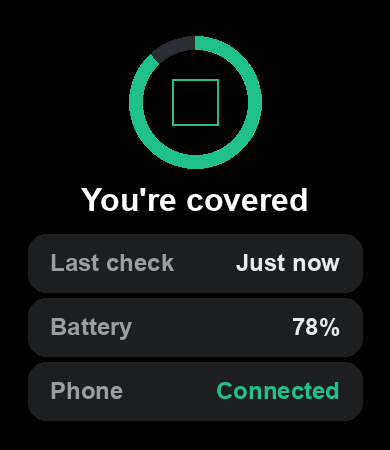
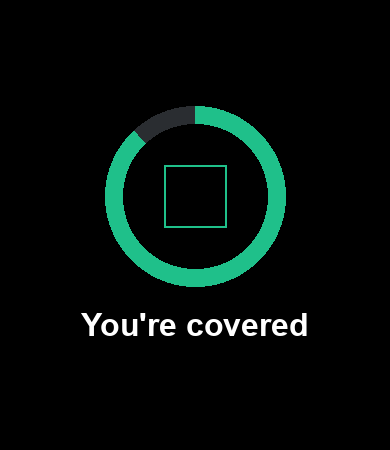
Implement detailed settings page and simplify Home UI
The Home screen now presents a single, centered detector ring, dropping the previous three information rows (last check, battery, phone link). This refines the watch UI for clarity.

The Phone app settings (`setting/index.js`) have been fully implemented, allowing users to configure emergency contact details and webhook parameters. A critical 'Send test alert' function is included, providing immediate feedback on webhook configuration and delivery status directly within the settings page.

diff --git a/page/index.js b/page/index.js
@@ -1,11 +1,11 @@
 /**
- * Home ("You're covered") — design 2A.
+ * Home — a single detector ring in the middle of the screen.
  *
  * Runs the accelerometer in the foreground (Zepp OS forbids it in background
  * services — README §1.2), keeps the page alive, feeds samples to the
  * detector and hands off to page/alert when a fall is confirmed.
  *
- * Interaction (the design keeps the screen to a ring and three facts):
+ * Interaction (the screen is only the ring):
  *   tap the ring         → pause / resume monitoring
  *   long-press the ring  → replay a synthetic fall (DEBUG only)
  *   swipe up             → sensitivity settings
@@ -13,8 +13,7 @@
  * Navigation to/from the alert flow uses replace(), so each page starts
  * fresh and monitoring restarts via AUTO_START when the flow returns here.
  */
-import { Accelerometer, Wear, Battery, FREQ_MODE_NORMAL } from '@zos/sensor'
-import { connectStatus } from '@zos/ble'
+import { Accelerometer, Wear, FREQ_MODE_NORMAL } from '@zos/sensor'
 import {
   setPageBrightTime,
   resetPageBrightTime,
@@ -53,10 +52,8 @@ Page(
       worn: true,
       accel: null,
       wear: null,
-      battery: null,
       detector: null,
       uiTimer: null,
-      lastSampleAt: 0,
       samplesSinceLog: 0,
       lastLogAt: 0,
       bucket: { startedAt: 0, samples: 0, worn: true },
@@ -72,7 +69,6 @@ Page(
       detector.onCandidate((c) => console.log('[fall-candidate]', JSON.stringify(c)))
       detector.onFall((evt) => this.onFallDetected(evt))
       this.state.detector = detector
-      this.state.battery = new Battery()
       this.syncPrefs()
     },
 
@@ -109,25 +105,6 @@ Page(
         color: COLOR.text,
         align_h: align.CENTER_H,
         align_v: align.CENTER_V,
-      })
-
-      const labels = ['home.last_check', 'home.battery', 'home.phone']
-      w.rows = L.ROWS.map((row, i) => {
-        createWidget(widget.FILL_RECT, { ...row.rect, color: COLOR.card })
-        createWidget(widget.TEXT, {
-          ...row.label,
-          text: getText(labels[i]),
-          color: COLOR.muted,
-          align_h: align.LEFT,
-          align_v: align.CENTER_V,
-        })
-        return createWidget(widget.TEXT, {
-          ...row.value,
-          text: '',
-          color: COLOR.textSoft,
-          align_h: align.RIGHT,
-          align_v: align.CENTER_V,
-        })
       })
 
       onGesture((g) => {
@@ -170,7 +147,6 @@ Page(
 
       const now = Date.now()
       s.running = true
-      s.lastSampleAt = 0
       s.samplesSinceLog = 0
       s.lastLogAt = now
       s.buckets = []
@@ -207,7 +183,6 @@ Page(
       const s = this.state
       const { x, y, z } = s.accel.getCurrent()
       const now = Date.now()
-      s.lastSampleAt = now
       s.samplesSinceLog++
       s.bucket.samples++
       if (!s.worn) {
@@ -218,7 +193,7 @@ Page(
       s.detector.push(now, x, y, z)
     },
 
-    /** Once a second: roll the coverage bucket, log the sample rate, refresh the rows. */
+    /** Once a second: roll the coverage bucket, log the sample rate, refresh the ring. */
     tick() {
       const s = this.state
       const now = Date.now()
@@ -258,23 +233,6 @@ Page(
         ...L.RING,
         color: ringColor,
         end_angle: L.RING.start_angle + Math.max(1, 360 * this.coverage()),
-      })
-
-      // Last check
-      let last = getText('home.paused')
-      if (s.running && s.lastSampleAt) {
-        const age = Date.now() - s.lastSampleAt
-        last = age < 60000 ? getText('home.just_now') : getText('home.min_ago').replace('{n}', Math.floor(age / 60000))
-      }
-      w.rows[0].setProperty(prop.TEXT, last)
-      // Battery
-      w.rows[1].setProperty(prop.TEXT, `${s.battery.getCurrent()}%`)
-      // Phone link
-      const linked = connectStatus()
-      w.rows[2].setProperty(prop.MORE, {
-        ...L.ROWS[2].value,
-        text: getText(linked ? 'home.connected' : 'home.disconnected'),
-        color: linked ? COLOR.green : COLOR.redSoft,
       })
     },
 

diff --git a/setting/index.js b/setting/index.js
@@ -1,7 +1,83 @@
+/**
+ * Phone settings page (Zepp app → Fall Guard → Settings).
+ *
+ * Writes to settingsStorage (string-only). The app-side reads these keys:
+ *   contactName, contactPhone, webhookUrl, webhookToken
+ * and pushes contactName to the watch whenever it changes.
+ *
+ * "Send test alert" works through storage too: this page sets
+ * `testAlertRequest`, the app-side sends a test POST and writes
+ * `testAlertResult`; the page re-renders (build re-runs on every storage
+ * change) and shows the outcome.
+ */
 import { gettext } from 'i18n'
 
-AppSettingsPage({
-  build() {
-    console.log(gettext('example'))
+const STYLE = {
+  page: { padding: '12px 0 32px' },
+  help: { fontSize: '13px', color: '#6E7278', padding: '4px 16px 12px', lineHeight: '1.45' },
+  status: { fontSize: '13px', padding: '6px 16px 12px', lineHeight: '1.45' },
+  ok: { color: '#1FC08A' },
+  fail: { color: '#FF3B2F' },
+  pending: { color: '#8A8F96' },
+}
+
+function testStatus(storage) {
+  const requested = Number(storage.getItem('testAlertRequest') || 0)
+  let result = null
+  try {
+    result = JSON.parse(storage.getItem('testAlertResult') || 'null')
+  } catch (e) {
+    result = null
   }
+  if (!requested) return null
+  if (!result || Number(result.ts) !== requested) return { text: gettext('delivery.testing'), style: STYLE.pending }
+  if (result.ok) return { text: gettext('delivery.test_ok').replace('{status}', result.status), style: STYLE.ok }
+  if (result.error === 'no_webhook') return { text: gettext('delivery.no_url'), style: STYLE.fail }
+  return { text: gettext('delivery.test_fail').replace('{error}', result.error || 'unknown'), style: STYLE.fail }
+}
+
+AppSettingsPage({
+  build(props) {
+    const storage = props.settingsStorage
+    const status = testStatus(storage)
+    const contactName = storage.getItem('contactName') || ''
+    const helpName = contactName.trim().split(/\s+/)[0] || 'your contact'
+
+    return View({ style: STYLE.page }, [
+      Section({ title: gettext('section.contact') }, [
+        TextInput({
+          label: gettext('contact.name'),
+          placeholder: gettext('contact.name_placeholder'),
+          settingsKey: 'contactName',
+        }),
+        TextInput({
+          label: gettext('contact.phone'),
+          placeholder: gettext('contact.phone_placeholder'),
+          settingsKey: 'contactPhone',
+        }),
+        Text({ paragraph: true, style: STYLE.help }, gettext('contact.help').replace('{name}', helpName)),
+      ]),
+
+      Section({ title: gettext('section.delivery') }, [
+        TextInput({
+          label: gettext('delivery.url'),
+          placeholder: gettext('delivery.url_placeholder'),
+          settingsKey: 'webhookUrl',
+        }),
+        TextInput({
+          label: gettext('delivery.token'),
+          settingsKey: 'webhookToken',
+        }),
+        Text({ paragraph: true, style: STYLE.help }, gettext('delivery.help')),
+        Button({
+          label: gettext('delivery.test'),
+          color: 'primary',
+          onClick: () => storage.setItem('testAlertRequest', String(Date.now())),
+        }),
+        status ? Text({ paragraph: true, style: { ...STYLE.status, ...status.style } }, status.text) : View({}, []),
+      ]),
+
+      Section({ title: gettext('section.watch') }, [Text({ paragraph: true, style: STYLE.help }, gettext('watch.help'))]),
+    ])
+  },
 })

diff --git a/page/index.r.layout.js b/page/index.r.layout.js
@@ -1,22 +1,11 @@
-// Home — round 480 × 480 (design 2A "You're covered"). All values in design px.
+// Home — round 480 × 480: a single detector ring centred on the screen.
 import { px } from '@zos/utils'
 
-// Ring: 150 px outer, 120 px inner (15 px stroke), centred at (240, 129). 0° = 3 o'clock.
-export const RING = { x: px(165), y: px(54), w: px(150), h: px(150), start_angle: -90, line_width: px(15) }
+// Ring: 200 px outer, 160 px inner (20 px stroke), centred at (240, 214). 0° = 3 o'clock.
+export const RING = { x: px(140), y: px(114), w: px(200), h: px(200), start_angle: -90, line_width: px(20) }
 export const RING_FULL = 270 // end_angle for 100 %
 // Inner disc is a circular BUTTON so the ring can be tapped (toggle) / long-pressed (debug).
-export const DISC = { x: px(180), y: px(69), w: px(120), h: px(120), radius: px(60), text: '' }
-export const SHIELD = { x: px(214), y: px(103), w: px(52), h: px(52), src: 'shield.png' }
+export const DISC = { x: px(160), y: px(134), w: px(160), h: px(160), radius: px(80), text: '' }
+export const SHIELD = { x: px(206), y: px(180), w: px(68), h: px(68), src: 'shield.png' }
 
-export const TITLE = { x: px(0), y: px(208), w: px(480), h: px(42), text_size: px(34) }
-
-const ROW_H = 58
-const ROW_X = 70
-const ROW_W = 340
-const PAD = 24
-const rowY = [252, 316, 380]
-export const ROWS = rowY.map((y) => ({
-  rect: { x: px(ROW_X), y: px(y), w: px(ROW_W), h: px(ROW_H), radius: px(20) },
-  label: { x: px(ROW_X + PAD), y: px(y), w: px(150), h: px(ROW_H), text_size: px(24) },
-  value: { x: px(ROW_X + ROW_W - PAD - 190), y: px(y), w: px(190), h: px(ROW_H), text_size: px(24) },
-}))
+export const TITLE = { x: px(0), y: px(332), w: px(480), h: px(44), text_size: px(34) }

diff --git a/page/index.s.layout.js b/page/index.s.layout.js
@@ -1,21 +1,10 @@
-// Home — square 390 × 450, e.g. Amazfit Active (design 2A). All values in design px.
+// Home — square 390 × 450 (Amazfit Active): a single detector ring centred on the screen.
 import { px } from '@zos/utils'
 
-// Ring: 132 px outer, 104 px inner (14 px stroke), centred at (195, 102).
-export const RING = { x: px(129), y: px(36), w: px(132), h: px(132), start_angle: -90, line_width: px(14) }
+// Ring: 180 px outer, 144 px inner (18 px stroke), centred at (195, 196).
+export const RING = { x: px(105), y: px(106), w: px(180), h: px(180), start_angle: -90, line_width: px(18) }
 export const RING_FULL = 270
-export const DISC = { x: px(143), y: px(50), w: px(104), h: px(104), radius: px(52), text: '' }
-export const SHIELD = { x: px(172), y: px(79), w: px(46), h: px(46), src: 'shield.png' }
+export const DISC = { x: px(123), y: px(124), w: px(144), h: px(144), radius: px(72), text: '' }
+export const SHIELD = { x: px(164), y: px(165), w: px(62), h: px(62), src: 'shield.png' }
 
-export const TITLE = { x: px(0), y: px(180), w: px(390), h: px(40), text_size: px(32) }
-
-const ROW_H = 58
-const ROW_X = 28
-const ROW_W = 334
-const PAD = 22
-const rowY = [234, 298, 362]
-export const ROWS = rowY.map((y) => ({
-  rect: { x: px(ROW_X), y: px(y), w: px(ROW_W), h: px(ROW_H), radius: px(18) },
-  label: { x: px(ROW_X + PAD), y: px(y), w: px(150), h: px(ROW_H), text_size: px(24) },
-  value: { x: px(ROW_X + ROW_W - PAD - 190), y: px(y), w: px(190), h: px(ROW_H), text_size: px(24) },
-}))
+export const TITLE = { x: px(0), y: px(304), w: px(390), h: px(42), text_size: px(32) }

diff --git a/app-side/index.js b/app-side/index.js
@@ -55,8 +55,16 @@ AppSideService(
     },
 
     // Fired by zml when the phone settings page writes to settingsStorage.
-    onSettingsChange({ key }) {
+    onSettingsChange({ key, newValue }) {
       if (key === 'contactName') this.call({ method: 'prefs.update', params: devicePrefs() })
+      if (key === 'testAlertRequest' && Number(newValue) > 0) this.runTestAlert(Number(newValue))
+    },
+
+    /** "Send test alert" from the settings page: POST with source 'test', report back via storage. */
+    runTestAlert(ts) {
+      this.sendSos({ source: 'test', ts, event: {} })
+        .catch((e) => ({ ok: false, error: String((e && e.message) || e) }))
+        .then((r) => settings.settingsStorage.setItem('testAlertResult', JSON.stringify({ ...r, ts })))
     },
 
     /**
@@ -75,7 +83,7 @@ AppSideService(
       const body = {
         type: 'fall',
         app: 'fall-guard',
-        source: params.source || 'unknown', // 'timeout' | 'manual'
+        source: params.source || 'unknown', // 'timeout' | 'manual' | 'test'
         ts: params.ts || Date.now(),
         contact: { name: setting('contactName'), phone: setting('contactPhone') },
         event: params.event || {},

diff --git a/tools/render-mocks.py b/tools/render-mocks.py
@@ -66,8 +66,6 @@ for shape in ['r', 's']:
     l = L[f'index.{shape}']; im, d = canvas(shape)
     arc(d, l['RING'], C['track'], 270); arc(d, l['RING'], C['green'], l['RING']['start_angle'] + 360 * 0.88)
     rrect(d, l['DISC'], C['bg']); icon(d, l['SHIELD']); txt(d, l['TITLE'], "You're covered", C['text'])
-    for row, (lab, val, vc) in zip(l['ROWS'], [('Last check', 'Just now', C['textSoft']), ('Battery', '78%', C['textSoft']), ('Phone', 'Connected', C['green'])]):
-        rrect(d, row['rect'], C['card']); txt(d, row['label'], lab, C['muted'], 'l'); txt(d, row['value'], val, vc, 'r')
     save(im, 'home', shape)
 
     l = L[f'alert.{shape}']; im, d = canvas(shape)

diff --git a/README.md b/README.md
@@ -150,7 +150,7 @@ The SOS-sent state, which 2A doesn't cover, adapts 1A's "Contacting" screen.
 
 | Screen | Page | What's on it |
 |---|---|---|
-| Home — "You're covered" | `page/index` | Green coverage ring with shield, title, three facts: *Last check* (age of the latest sample), *Battery* (`Battery.getCurrent()`), *Phone* (`ble.connectStatus()`). |
+| Home — "You're covered" | `page/index` | Simplified from the design: a single coverage ring with the shield, centred, and the state title beneath it (covered / paused / not on wrist). The three info rows were dropped on 2026-09-16. |
 | Fall detected — "Are you alright?" | `page/alert` | Red countdown ring, "We'll call {contact}, then emergency services", white **I'm fine** pill, **Get help now** link. |
 | Confirmed — "Glad you're OK" | `page/result?type=ok` | Green check disc, "Nobody was called. We'll keep watching.", closes in 3 s. |
 | Contacting | `page/result?type=sos` | Initials avatar, contact name, live status of the `sos.send` request, **Done**. |
@@ -169,7 +169,7 @@ Design → Zepp OS mapping:
 | Design | Watch |
 |---|---|
 | Conic-gradient rings | `widget.ARC` track + progress, `start_angle: -90` (0° is 3 o'clock) |
-| Shield / check icons | `assets/default.{r,s}/shield.png`, `check.png` rendered from the SVG paths with `rsvg-convert` (sizes per shape) |
+| Shield / check icons | `assets/default.{r,s}/shield.png` (68 / 62 px), `check.png` (60 / 54 px) rendered from the SVG paths with `rsvg-convert` |
 | Radial red glow | three translucent `CIRCLE`s (`alpha` 18/22/26); a gradient PNG would be ~900 KB once the build converts it to TGA |
 | White pill / text link | `BUTTON` with `normal_color` white / black |
 | Radio rows, toggle | `FILL_RECT` + `STROKE_RECT` + `CIRCLE`, both states pre-created and swapped with `prop.VISIBLE` |
@@ -532,27 +532,29 @@ Not attached yet: **location**. The status string is "Alert sent" until a
 position is actually included (watch GPS via `@zos/sensor Geolocation` on
 GPS models, or phone location if the Zepp app exposes it).
 
-### Step 7 — Settings page (`setting/index.js`)
+### Step 7 — Settings page (`setting/index.js`)  ✅ done
 
-Rendered in the Zepp phone app. Store: emergency contact, webhook URL,
-countdown seconds, sensitivity (which maps to `IMPACT_G` / `STILL_VAR_G`).
+Rendered inside the Zepp phone app (Fall Guard → Settings). Components are
+globals (`View`, `Section`, `TextInput`, `Text`, `Button`), and `build(props)`
+re-runs whenever `settingsStorage` changes, so the page is a pure function of
+storage.
 
-```js
-AppSettingsPage({
-  build(props) {
-    return View({}, [
-      TextInput({ label: 'Emergency contact', settingsKey: 'contact' }),
-      TextInput({ label: 'Webhook URL', settingsKey: 'webhookUrl' }),
-      Select({ label: 'Sensitivity', settingsKey: 'sensitivity',
-        options: [{ name: 'Low', value: 'low' }, { name: 'Normal', value: 'normal' }, { name: 'High', value: 'high' }] }),
-    ])
-  },
-})
-```
+| Section | Fields → `settingsStorage` key |
+|---|---|
+| Emergency contact | Name → `contactName`, Phone → `contactPhone` (the watch shows "We'll call {first name}…") |
+| Alert delivery | Webhook URL → `webhookUrl`, Bearer token → `webhookToken`, **Send test alert** |
+| On the watch | note that sensitivity + siren live on the wrist (swipe up on Home) — one source of truth, no two-way sync |
 
-Push sensitivity to the watch on change (app-side `onSettingsChange` →
-`this.call({ method: 'config.update', params })`; device `onCall` → rebuild
-the detector with new thresholds and persist with `@zos/storage`).
+**Send test alert** goes through storage, since the settings page can't
+talk to the app-side directly: the button writes `testAlertRequest = now`;
+the app-side's `onSettingsChange` runs `sendSos({ source: 'test' })` and
+writes `testAlertResult = { ok, status | error, ts }`; the page re-renders and
+shows "Delivered (HTTP 200)", "Enter a webhook URL first." or the error.
+
+`contactName` edits are pushed to the watch immediately (`prefs.update`), so
+the alert caption updates without reopening the app.
+
+Strings live in `setting/i18n/en-US.po` (`gettext`).
 
 ### Step 8 — Test in the simulator with synthetic data
 
